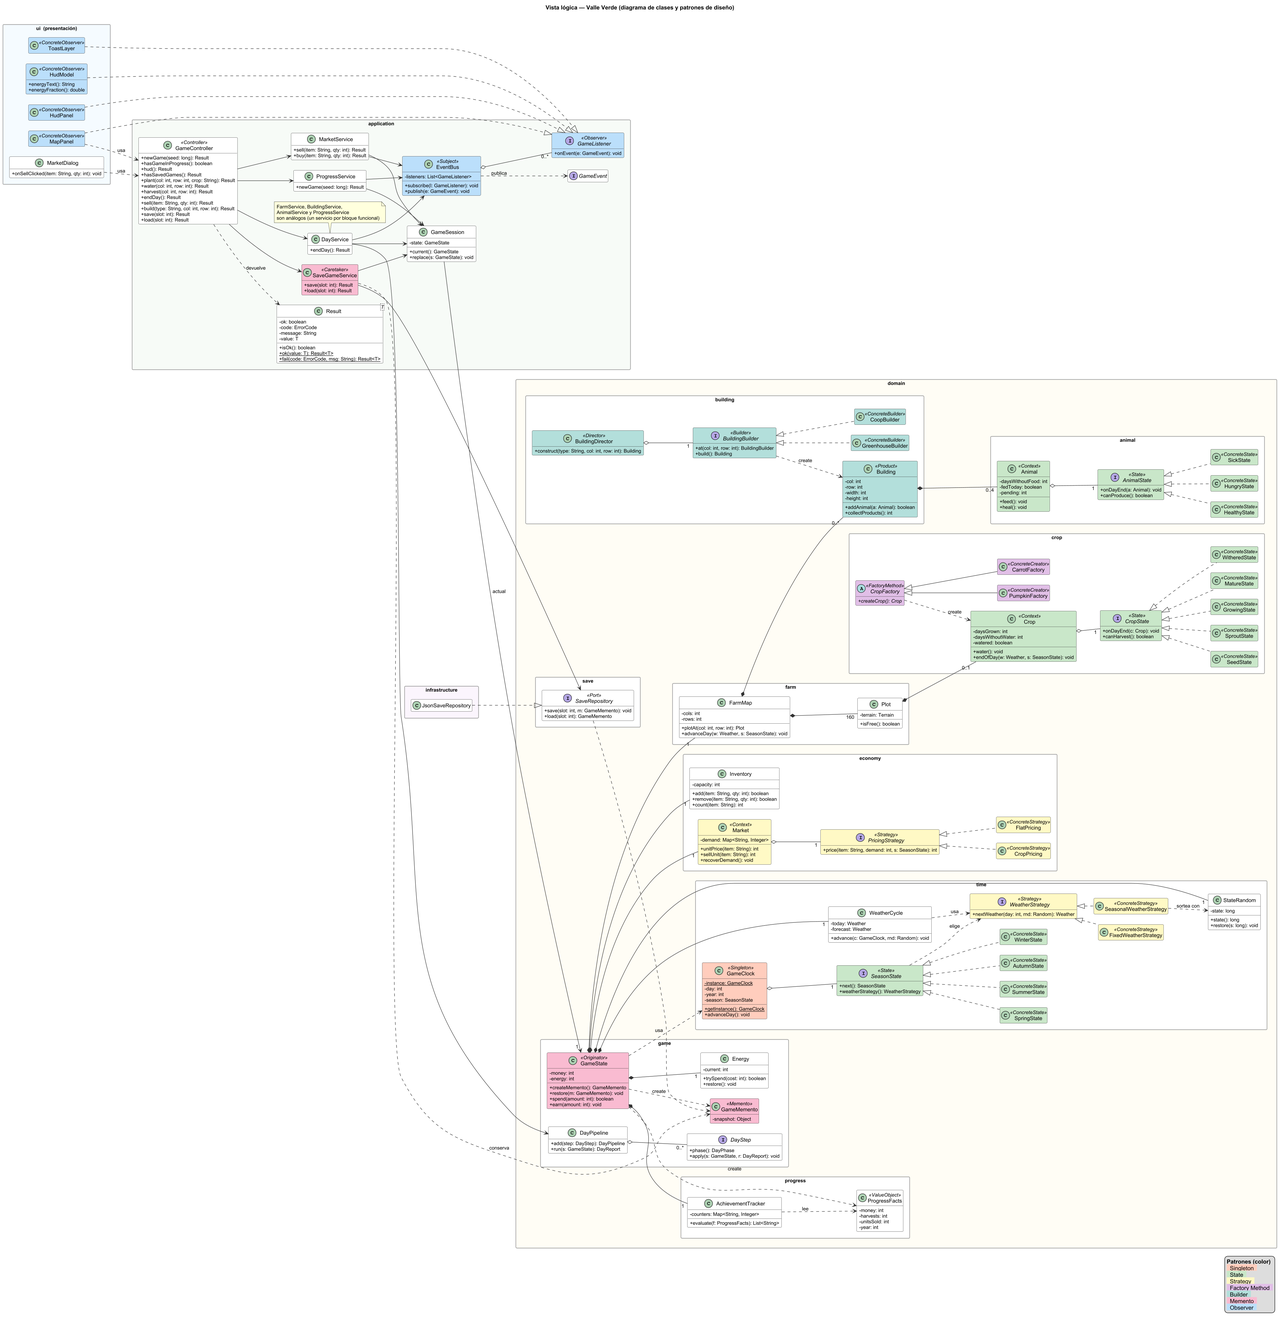
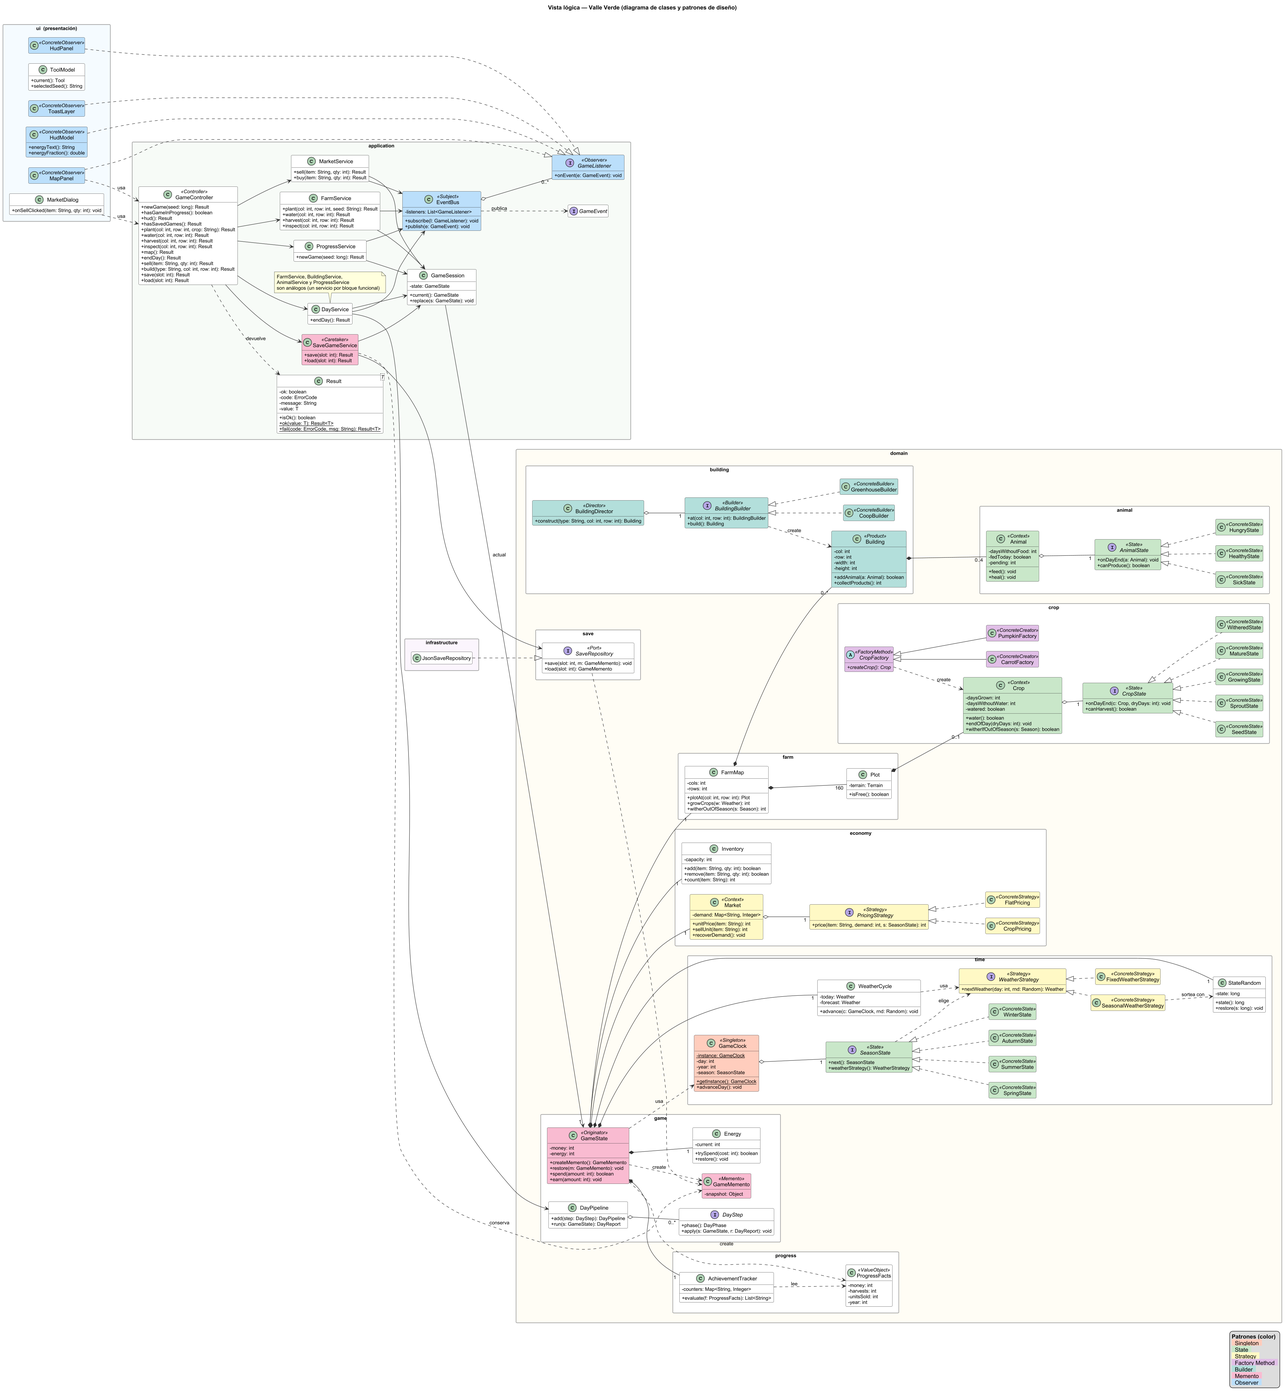
docs(architecture): record phase 5.2 results; sync diagrams and add real-imports checker

diff --git a/tools/check_imports.py b/tools/check_imports.py
@@ -1,0 +1,31 @@
+"""Compares the real imports between domain sub-packages with the arrows drawn in the development view.
+
+Usage (from any folder): python tools/check_imports.py
+Fails if the code has a dependency between domain packages that the diagram does not draw.
+Arrows drawn but not yet present in the code are listed as information (they belong to later phases).
+"""
+import glob, os, re, sys
+sys.stdout.reconfigure(encoding='utf-8')
+ROOT = os.path.join(os.path.dirname(os.path.abspath(__file__)), '..')
+os.chdir(ROOT)
+base = 'src/main/java/edu/ucc/farmsim/'
+real = set()
+for f in glob.glob(base + 'domain/**/*.java', recursive=True):
+    me = os.path.relpath(os.path.dirname(f), base).replace(os.sep, '.')
+    for m in re.findall(r'^import edu\.ucc\.farmsim\.(domain\.\w+)\.', open(f, encoding='utf-8').read(), re.M):
+        if m != me and m != 'domain.config':
+            real.add((me, m))
+dev = open('docs/diagramas/04_vista_desarrollo.puml', encoding='utf-8').read()
+alias = {}; stack = []
+for line in dev.splitlines():
+    s = line.strip(); m = re.match(r'package "([^"]+)"\s+as\s+(\w+).*\{$', s)
+    if m: stack.append(m.group(1)); alias[m.group(2)] = '.'.join(stack[1:]); continue
+    if s == '}' and stack: stack.pop()
+edges = re.findall(r'^(\w+) \.(?:down|up)?\.?> (\w+)', dev, re.M) + re.findall(r'^(\w+) \.\.> (\w+)', dev, re.M)
+drawn = {(alias[a], alias[b]) for a, b in edges if a in alias and b in alias}
+missing = sorted(real - drawn)
+print('dependencias reales entre paquetes de dominio:', sorted(real))
+print('FALTAN en el diagrama:' if missing else 'Todas las dependencias reales están dibujadas.', missing if missing else '')
+planned = sorted(e for e in drawn if e[0].startswith('domain.') and e[1].startswith('domain.') and e not in real)
+print('dibujadas y aún sin código (fases siguientes):', planned)
+sys.exit(1 if missing else 0)

diff --git a/tools/gen_test_plan.py b/tools/gen_test_plan.py
@@ -57,7 +57,7 @@ Las pruebas se escriben **antes** que el código, historia por historia (DoD 1).
 | Solo pruebas de una historia | `mvn test -Dtest='HU01*'` |
 | Incluir pruebas de rendimiento | `mvn verify -Pperf` |
 | Informe de cobertura | `target/site/jacoco/index.html` |
-| Comprobar diagramas, historias y trazabilidad | `python tools/check_diagrams.py` · `python tools/check_hu.py` · `python tools/traceability.py [--upto 5.x]` |
+| Comprobar diagramas, historias, código y trazabilidad | `python tools/check_diagrams.py` · `python tools/check_hu.py` · `python tools/check_imports.py` · `python tools/traceability.py [--upto 5.x]` |
 
 > En este equipo Maven no está en el PATH: se usa `tools/apache-maven-3.9.16/bin/mvn` (o el `mvnw` que se generará en la Fase 5.0).
 

diff --git a/docs/TRAZABILIDAD.md b/docs/TRAZABILIDAD.md
@@ -7,18 +7,18 @@
 
 | RF | Prioridad | Historias | Componente funcional | Clases | Pruebas |
 |---|---|---|---|---|---|
-| RF-01 | Must | HU-01 | Cultivo | pendiente | HU-01: 0 |
-| RF-02 | Must | HU-02 | Cultivo | pendiente | HU-02: 0 |
-| RF-03 | Must | HU-03 | Cultivo | pendiente | HU-03: 0 |
-| RF-04 | Must | HU-04 | Cultivo | pendiente | HU-04: 0 |
-| RF-05 | Must | HU-05, HU-12 | Cultivo | pendiente | HU-05: 0, HU-12: 0 |
-| RF-06 | Should | HU-06 | Cultivo | pendiente | HU-06: 0 |
-| RF-07 | Must | HU-07 | Cultivo | pendiente | HU-07: 0 |
-| RF-08 | Must | HU-10 | Tiempo y clima | CalendarStep, DayPhase, DayPipeline, DayReport, DayService, DayStep, EnergyResetStep, EventBus, ForecastStep, GameController, GameEvent, GameListener, GameMemento, GameScreenPresenter, GameState, Inventory, InventorySnapshot | HU-10: 10 |
+| RF-01 | Must | HU-01 | Cultivo | CarrotFactory, CornFactory, Crop, CropFactory, CropSnapshot, CropStage, CropState, CropType, Energy, FarmMap, FarmMapSnapshot, FarmService, GameController, GameEvent, GameMemento, GameRules, GameState, GrowingState, ItemType, MatureState, Names, Plot, PlotView, PotatoFactory, PumpkinFactory, SeedState, SproutState, TomatoFactory, ViewMapper, WitheredState | HU-01: 10 |
+| RF-02 | Must | HU-02 | Cultivo | Crop, FarmService, GameController | HU-02: 9 |
+| RF-03 | Must | HU-03 | Cultivo | Crop, CropState, DayPipeline, FarmMap, GrowingPhaseState, GrowingState, GrowthStep, MatureState, SeedState, SproutState, WitheredState | HU-03: 5 |
+| RF-04 | Must | HU-04 | Cultivo | FarmService, GameController | HU-04: 9 |
+| RF-05 | Must | HU-05, HU-12 | Cultivo | CalendarStep, Crop, CropState, DayReport, FarmMap, GameRules, GrowingPhaseState, GrowthStep | HU-05: 9, HU-12: 0 |
+| RF-06 | Should | HU-06 | Cultivo | FarmService, GameController | HU-06: 6 |
+| RF-07 | Must | HU-07 | Cultivo | FarmService, GameController, MapPanel, Names, PlotText, PlotView | HU-07: 10 |
+| RF-08 | Must | HU-10 | Tiempo y clima | CalendarStep, DayPhase, DayPipeline, DayReport, DayService, DayStep, EnergyResetStep, EventBus, ForecastStep, GameController, GameEvent, GameListener, GameMemento, GameScreenPresenter, GameState, Inventory, InventorySnapshot | HU-10: 12 |
 | RF-09 | Must | HU-09 | Tiempo y clima | AutumnState, GameClock, GameDate, GameRules, Season, SeasonState, SpringState, SummerState, WinterState | HU-09: 8 |
 | RF-10 | Must | HU-11 | Tiempo y clima | AutumnState, FixedWeatherStrategy, GameRules, SeasonState, SeasonalWeatherStrategy, SpringState, StateRandom, SummerState, Weather, WeatherCycle, WeatherStrategy, WinterState | HU-11: 8 |
 | RF-11 | Must | HU-12 | Tiempo y clima | pendiente | HU-12: 0 |
-| RF-12 | Must | HU-08 | Tiempo y clima | Energy, ErrorCode, GameRules, Messages | HU-08: 5 |
+| RF-12 | Must | HU-08 | Tiempo y clima | Energy, ErrorCode, GameRules, Messages | HU-08: 6 |
 | RF-13 | Must | HU-13 | Economía | GameRules, Inventory, ItemType | HU-13: 5 |
 | RF-14 | Must | HU-14 | Economía | pendiente | HU-14: 0 |
 | RF-15 | Must | HU-15 | Economía | pendiente | HU-15: 0 |
@@ -40,9 +40,9 @@
 | RF-31 | Must | HU-31 | Guardado | pendiente | HU-31: 0 |
 | RF-32 | Should | HU-32 | Guardado | pendiente | HU-32: 0 |
 | RF-33 | Must | HU-33 | Interfaz de usuario | GameController, GameRules, GameScreen, JsonSaveRepository, Main, SaveGameService, SaveRepository, ScreenNavigator, ScreenRouter, StartScreen, StartScreenPresenter, Texts | HU-33: 11 |
-| RF-34 | Must | HU-34 | Interfaz de usuario | GameEvent, GameScreen, GameScreenPresenter, HudModel, HudPanel, HudView, Texts, ViewMapper | HU-34: 7 |
-| RF-35 | Must | HU-35 | Interfaz de usuario | pendiente | HU-35: 0 |
-| RF-36 | Must | HU-36 | Interfaz de usuario | pendiente | HU-36: 0 |
+| RF-34 | Must | HU-34 | Interfaz de usuario | GameEvent, GameScreen, GameScreenPresenter, HudModel, HudPanel, HudView, Texts, ViewMapper | HU-34: 8 |
+| RF-35 | Must | HU-35 | Interfaz de usuario | CellPos, FarmService, GameController, GameScreen, MapGeometry, MapPanel, MapRenderer, MapView, Palette, PlotClickListener, ViewMapper | HU-35: 10 |
+| RF-36 | Must | HU-36 | Interfaz de usuario | GameScreen, GameScreenPresenter, Shortcut, Texts, Tool, ToolBar, ToolModel | HU-36: 13 |
 | RF-37 | Must | HU-37 | Interfaz de usuario | pendiente | HU-37: 0 |
 | RF-38 | Must | HU-38 | Interfaz de usuario | pendiente | HU-38: 0 |
 | RF-39 | Should | HU-39 | Interfaz de usuario | pendiente | HU-39: 0 |
@@ -54,16 +54,16 @@
 
 | Historia | Fase | Prioridad | Criterios | Pruebas | Estado | Clases |
 |---|---|---|---|---|---|---|
-| HU-01 · Sembrar cultivo | 5.2 | Must | 4 | 0 | sin pruebas | pendiente |
-| HU-02 · Regar cultivo | 5.2 | Must | 4 | 0 | sin pruebas | pendiente |
-| HU-03 · Crecimiento por etapas | 5.2 | Must | 4 | 0 | sin pruebas | pendiente |
-| HU-04 · Cosechar cultivo maduro | 5.2 | Must | 4 | 0 | sin pruebas | pendiente |
-| HU-05 · Marchitamiento por falta de riego y por estación | 5.2 | Must | 5 | 0 | sin pruebas | pendiente |
-| HU-06 · Limpiar parcela marchita | 5.2 | Should | 4 | 0 | sin pruebas | pendiente |
-| HU-07 · Consultar el estado de una parcela | 5.2 | Must | 4 | 0 | sin pruebas | pendiente |
-| HU-08 · Administrar la energía diaria | 5.1 | Must | 4 | 5 | completa | Energy, ErrorCode, GameRules, Messages |
+| HU-01 · Sembrar cultivo | 5.2 | Must | 4 | 10 | completa | CarrotFactory, CornFactory, Crop, CropFactory, CropSnapshot, CropStage, CropState, CropType, Energy, FarmMap, FarmMapSnapshot, FarmService, GameController, GameEvent, GameMemento, GameRules, GameState, GrowingState, ItemType, MatureState, Names, Plot, PlotView, PotatoFactory, PumpkinFactory, SeedState, SproutState, TomatoFactory, ViewMapper, WitheredState |
+| HU-02 · Regar cultivo | 5.2 | Must | 4 | 9 | completa | Crop, FarmService, GameController |
+| HU-03 · Crecimiento por etapas | 5.2 | Must | 4 | 5 | completa | Crop, CropState, DayPipeline, FarmMap, GrowingPhaseState, GrowingState, GrowthStep, MatureState, SeedState, SproutState, WitheredState |
+| HU-04 · Cosechar cultivo maduro | 5.2 | Must | 4 | 9 | completa | FarmService, GameController |
+| HU-05 · Marchitamiento por falta de riego y por estación | 5.2 | Must | 5 | 9 | completa | CalendarStep, Crop, CropState, DayReport, FarmMap, GameRules, GrowingPhaseState, GrowthStep |
+| HU-06 · Limpiar parcela marchita | 5.2 | Should | 4 | 6 | completa | FarmService, GameController |
+| HU-07 · Consultar el estado de una parcela | 5.2 | Must | 4 | 10 | completa | FarmService, GameController, MapPanel, Names, PlotText, PlotView |
+| HU-08 · Administrar la energía diaria | 5.1 | Must | 4 | 6 | completa | Energy, ErrorCode, GameRules, Messages |
 | HU-09 · Calendario y estaciones | 5.1 | Must | 4 | 8 | completa | AutumnState, GameClock, GameDate, GameRules, Season, SeasonState, SpringState, SummerState, WinterState |
-| HU-10 · Terminar el día | 5.1 | Must | 4 | 10 | completa | CalendarStep, DayPhase, DayPipeline, DayReport, DayService, DayStep, EnergyResetStep, EventBus, ForecastStep, GameController, GameEvent, GameListener, GameMemento, GameScreenPresenter, GameState, Inventory, InventorySnapshot |
+| HU-10 · Terminar el día | 5.1 | Must | 4 | 12 | completa | CalendarStep, DayPhase, DayPipeline, DayReport, DayService, DayStep, EnergyResetStep, EventBus, ForecastStep, GameController, GameEvent, GameListener, GameMemento, GameScreenPresenter, GameState, Inventory, InventorySnapshot |
 | HU-11 · Sorteo de clima y pronóstico | 5.1 | Must | 4 | 8 | completa | AutumnState, FixedWeatherStrategy, GameRules, SeasonState, SeasonalWeatherStrategy, SpringState, StateRandom, SummerState, Weather, WeatherCycle, WeatherStrategy, WinterState |
 | HU-12 · Efectos del clima en los cultivos | 5.3 | Must | 4 | 0 | sin pruebas | pendiente |
 | HU-13 · Administrar el inventario | 5.1 | Must | 4 | 5 | completa | GameRules, Inventory, ItemType |
@@ -87,9 +87,9 @@
 | HU-31 · Rechazar archivos inválidos sin alterar la partida | 5.5 | Must | 5 | 0 | sin pruebas | pendiente |
 | HU-32 · Listar ranuras de guardado | 5.5 | Should | 3 | 0 | sin pruebas | pendiente |
 | HU-33 · Pantalla de inicio | 5.1 | Must | 4 | 11 | completa | GameController, GameRules, GameScreen, JsonSaveRepository, Main, SaveGameService, SaveRepository, ScreenNavigator, ScreenRouter, StartScreen, StartScreenPresenter, Texts |
-| HU-34 · HUD superior | 5.1 | Must | 4 | 7 | completa | GameEvent, GameScreen, GameScreenPresenter, HudModel, HudPanel, HudView, Texts, ViewMapper |
-| HU-35 · Mapa de la granja | 5.2 | Must | 5 | 0 | sin pruebas | pendiente |
-| HU-36 · Herramientas y clic sobre parcelas | 5.2 | Must | 5 | 0 | sin pruebas | pendiente |
+| HU-34 · HUD superior | 5.1 | Must | 4 | 8 | completa | GameEvent, GameScreen, GameScreenPresenter, HudModel, HudPanel, HudView, Texts, ViewMapper |
+| HU-35 · Mapa de la granja | 5.2 | Must | 5 | 10 | completa | CellPos, FarmService, GameController, GameScreen, MapGeometry, MapPanel, MapRenderer, MapView, Palette, PlotClickListener, ViewMapper |
+| HU-36 · Herramientas y clic sobre parcelas | 5.2 | Must | 5 | 13 | completa | GameScreen, GameScreenPresenter, Shortcut, Texts, Tool, ToolBar, ToolModel |
 | HU-37 · Inventario en grilla | 5.3 | Must | 4 | 0 | sin pruebas | pendiente |
 | HU-38 · Mercado modal | 5.3 | Must | 4 | 0 | sin pruebas | pendiente |
 | HU-39 · Notificaciones (toasts) | 5.6 | Should | 4 | 0 | sin pruebas | pendiente |
@@ -97,4 +97,4 @@
 | HU-41 · Animaciones suaves | 5.6 | Could | 4 | 0 | sin pruebas | pendiente |
 | HU-42 · Carga de sprites con respaldo vectorial | 5.6 | Should | 4 | 0 | sin pruebas | pendiente |
 
-**Resumen:** 8 de 42 historias con todas sus pruebas; 61 pruebas `HUxx_` en total.
+**Resumen:** 17 de 42 historias con todas sus pruebas; 146 pruebas `HUxx_` en total.

diff --git a/docs/ARQUITECTURA.md b/docs/ARQUITECTURA.md
@@ -2,7 +2,7 @@
 
 > **Versión 0.1 · 2026-11-22 · Fase 4**
 > Formaliza el diseño propuesto en los diagramas ([`DIAGRAMAS.md`](DIAGRAMAS.md)): capas, árbol de paquetes, decisiones técnicas y plan de implementación por fases con sus historias ([`HISTORIAS_DE_USUARIO.md`](HISTORIAS_DE_USUARIO.md) §7). El plan de pruebas está en [`PLAN_DE_PRUEBAS.md`](PLAN_DE_PRUEBAS.md).
-> **Estado:** las Fases 5.0 (§10) y 5.1 (§11) están hechas. La Fase 5.2 empieza solo con tu visto bueno.
+> **Estado:** las Fases 5.0 (§10), 5.1 (§11) y 5.2 (§12) están hechas. La Fase 5.3 empieza solo con tu visto bueno.
 
 ## 1. Estilo arquitectónico
 
@@ -229,4 +229,47 @@ Ajustes surgidos al implementar: (1) `Main` se declara como capa «Composition»
 | HU-33 · CA-3 | cargar cuando sí hay una partida guardada | 5.5 (HU-30) |
 
 **Diagramas:** el diagrama lógico y el de desarrollo incluyen ahora las clases reales de la fase. Además de `tools/check_diagrams.py`, se comprobó una vez contra los `import` reales del dominio: no falta ninguna dependencia en el dibujo (las flechas dibujadas que aún no existen en el código corresponden a fases siguientes).
+
+## 12. Estado de la Fase 5.2 (cultivo)
+
+**Historias cerradas (9 historias, 29 puntos):** HU-01, 02, 03, 04, 05, 06, 07, 35 y 36. `python tools/traceability.py --upto 5.2` termina sin errores.
+
+| Resultado | Valor |
+|---|---|
+| Pruebas | 163 en verde (146 con prefijo `HUxx_`) y 1 deshabilitada con motivo (HU-10 · CA-3, fase 5.5) |
+| Cobertura de líneas (JaCoCo) | **dominio 97,8 %**, **aplicación 95,5 %**, UI 90,6 %, infraestructura 100 % (barrera: 70 % en dominio y aplicación) |
+| Patrones aplicados | State (`CropState` con `SeedState`, `SproutState`, `GrowingState`, `MatureState`, `WitheredState`; contexto `Crop`), Factory Method (`CropFactory` con 5 creadores), Observer (`MapPanel`); todos registrados en `patterns.txt` |
+| Pruebas críticas cerradas | **1** `HU01_ca2_sowingOutOfSeasonIsRejectedAndNothingChanges` y **2** `HU04_ca2_harvestingWithAFullInventoryIsRejectedAndTheCropStaysMature` |
+| Integración Swing real | herramienta «1 Sembrar» → clic en el mapa → HUD 98/100 → `Enter` termina el día |
+
+**Decisiones tomadas al implementar:**
+
+| # | Decisión | Motivo |
+|---|---|---|
+| D-07 | `CropType` no conoce `ItemType`: es `ItemType` quien enlaza cada semilla y cada cosecha con su cultivo | Evita un ciclo `crop ↔ economy`: el diagrama de desarrollo ya dibujaba `economy → crop` |
+| D-08 | `GrowingPhaseState` agrupa lo común de Semilla, Brote y Crecimiento (necesitan agua, no se cosechan) | Una sola implementación de la regla de crecimiento y de marchitamiento por sequedad |
+| D-09 | El marchitamiento por cambio de estación vive en `CalendarStep` (paso 5 de RN-03) y el de sequedad en `GrowthStep` (paso 2) | Es exactamente el orden de RN-03; el crecimiento del último día ocurre antes del cambio de estación |
+| D-10 | La herramienta «Cosechar» cosecha, limpia o (en 5.4) recolecta según el contenido de la parcela | RN-34 |
+| D-11 | Código nuevo `CULTIVO_MARCHITO` en RN-35 | RN-07 manda rechazar el riego de un cultivo marchito y no había código para ello |
+| D-12 | Regar un cultivo maduro se permite (cuesta energía sin efecto) | RN-07 solo exige «vivo y sin regar hoy»; el rechazo necesitaría una regla nueva |
+| D-13 | Las herramientas «Construir» y «Alimentar» y los atajos `M`, `I`, `L`, `F5`, `F9` se pueden pulsar y responden «estará disponible en una fase posterior» | HU-36 · CA-1 y CA-5 piden que existan; sus pantallas llegan en 5.3, 5.4 y 5.5 |
+| D-14 | `MapPanel` consulta el mapa solo al recibir un evento (`GameStarted`, `DayEnded`, `MapChanged`); no tiene `Timer` (lo verifica una prueba) | Regla de interfaz: actualizar por eventos, no por consulta en bucle |
+| D-15 | Geometría (`MapGeometry`) y dibujo (`MapRenderer`) son clases sin componente | Se prueban pintando sobre un `BufferedImage`, sin pantalla |
+
+**Correcciones a documentos aprobados:** (1) las coordenadas de ejemplo de HU-01 (parcela `(2,3)`) y de HU-18 (esquina `(4,6)`) no coincidían con el mapa de RN-04 y se cambiaron por `(5,3)` y `(2,7)`; (2) `CULTIVO_MARCHITO` se agregó a RN-35; (3) los diagramas lógico y de desarrollo incluyen las clases de la fase (`FarmMap.growCrops`, `Crop.endOfDay`, `CropState.onDayEnd`, `FarmService`).
+
+**Criterios de la 5.1 que se cerraron en esta fase:** HU-10 · CA-2 (se limpia la marca de riego), HU-08 · CA-2 (`SIN_ENERGIA` al sembrar) y HU-34 · CA-2 (el evento `EnergyChanged` lo publica una acción real).
+
+**Criterios cubiertos en parte (se completan donde nace lo que falta):**
+
+| Criterio | Qué falta | Fase |
+|---|---|---|
+| HU-28 · CA-1 | demanda 100 de todos los productos y logros bloqueados | 5.3 y 5.5 |
+| HU-10 · CA-3 | rendimiento a plena carga (prueba `@Disabled`) | 5.5 |
+| HU-33 · CA-3 | cargar cuando sí hay una partida guardada | 5.5 |
+| HU-35 · CA-3 | dibujar edificios y animales | 5.4 |
+| HU-36 · CA-4 | recolectar los productos de un edificio con «Cosechar» | 5.4 |
+| HU-36 · CA-5 | `M`, `I`, `L`, `F5` y `F9` abren su función (hoy solo responden que llegará) | 5.3 y 5.5 |
+
+**Diagramas:** además de `tools/check_diagrams.py`, la nueva herramienta `tools/check_imports.py` compara los `import` reales entre paquetes del dominio con las flechas del diagrama de desarrollo: no falta ninguna.
 

diff --git a/README.md b/README.md
@@ -12,9 +12,10 @@ Simulador de granja 2D **por turnos** (un turno = un día), hecho en Java con Sw
 | 0 a 4 | Lectura de insumos, requerimientos, historias de usuario, diagramas y arquitectura | hechas (ver [`docs/`](docs/)) |
 | **5.0** | Preparación técnica: `pom.xml`, esqueleto de paquetes, pruebas de arquitectura, cobertura | **hecha** |
 | **5.1** | Núcleo del turno: inventario, calendario, energía, clima, nueva partida, terminar día, pantalla de inicio y HUD (8 historias) | **hecha** |
-| 5.2 a 5.6 | Cultivos, economía, animales y edificios, guardado y pulido visual | pendientes |
+| **5.2** | Cultivo: sembrar, regar, crecer, cosechar, marchitar y limpiar, con el mapa Java2D, herramientas y atajos (9 historias) | **hecha** |
+| 5.3 a 5.6 | Economía, animales y edificios, guardado y pulido visual | pendientes |
 
-Hoy el juego abre la **pantalla de inicio** (Nueva partida, Cargar, Salir) y una pantalla de juego con la barra superior (dinero, fecha, clima, pronóstico y energía) y el botón «Terminar día». El mapa de la granja y las herramientas llegan con la fase 5.2.
+Hoy el juego abre la **pantalla de inicio** (Nueva partida, Cargar, Salir) y una pantalla de juego con la barra superior (dinero, fecha, clima, pronóstico y energía) y el botón «Terminar día». Desde la fase 5.2 también tiene el **mapa de la granja**: eliges una herramienta (teclas `1` a `5` o la barra), eliges la semilla y haces clic en una parcela de tierra para sembrar, regar y cosechar; `Enter` termina el día. El mercado, los animales y el guardado llegan en las fases siguientes.
 
 ## Requisitos
 
@@ -43,6 +44,7 @@ java -jar target\farmsim.jar
 | Informe de cobertura | abrir `target\site\jacoco\index.html` |
 | Comprobar diagramas | `python tools/check_diagrams.py` |
 | Comprobar historias de usuario | `python tools/check_hu.py` |
+| Comprobar el código contra el diagrama de desarrollo | `python tools/check_imports.py` |
 | Matriz de trazabilidad | `python tools/traceability.py` → `docs/TRAZABILIDAD.md` |
 | Volver a generar los diagramas | `bash tools/render_diagrams.sh` (requiere Java, `tools/plantuml.jar` y Graphviz) |
 
@@ -65,13 +67,15 @@ edu.ucc.farmsim
 |---|---|---|---|
 | Singleton | `GameClock` | HU-09 | hecho (5.1) |
 | State | `SeasonState` con `SpringState`, `SummerState`, `AutumnState`, `WinterState` | HU-09 | hecho (5.1) |
-| State | `CropState`, `AnimalState` y sus estados concretos | HU-03, HU-05, HU-21 | 5.2 y 5.4 |
+| State | `CropState` con `SeedState`, `SproutState`, `GrowingState`, `MatureState`, `WitheredState` (contexto `Crop`) | HU-03, HU-05 | hecho (5.2) |
+| State | `AnimalState` y sus estados concretos | HU-21 | 5.4 |
 | Strategy | `WeatherStrategy` con `SeasonalWeatherStrategy` y `FixedWeatherStrategy` | HU-11 | hecho (5.1) |
 | Strategy | `PricingStrategy` | HU-15 | 5.3 |
 | Observer | `EventBus`, `GameListener`, `HudModel`, `HudPanel` | HU-10, HU-34 | hecho (5.1) |
-| Observer | `MapPanel`, `ToastLayer` | HU-35, HU-39 | 5.2 y 5.6 |
+| Observer | `MapPanel` | HU-35 | hecho (5.2) |
+| Observer | `ToastLayer` | HU-39 | 5.6 |
 | Memento | `GameState` (originador), `GameMemento` | HU-10 | en memoria (5.1); guardado en archivo en 5.5 |
-| Factory Method | `CropFactory` y sus creadores | HU-01 | 5.2 |
+| Factory Method | `CropFactory` con `CarrotFactory`, `PotatoFactory`, `TomatoFactory`, `CornFactory`, `PumpkinFactory` | HU-01 | hecho (5.2) |
 | Builder | `BuildingBuilder`, `BuildingDirector` | HU-18 | 5.4 |
 
 > Cada clase de patrón lleva el Javadoc `Pattern: <nombre> — Role: <rol>` y está registrada en `src/test/resources/patterns.txt` (una prueba lo verifica). La tabla se actualiza al cerrar cada fase.

diff --git a/docs/DIAGRAMAS.md b/docs/DIAGRAMAS.md
@@ -116,6 +116,7 @@ Tomados de la revisión de la guía de estudio y del PDF de despliegue:
 | Cada **mensaje** de la secuencia es una operación de la clase receptora (o de la interfaz que implementa) | 10 mensajes verificados |
 | Los **42 RF** aparecen en la vista funcional exactamente una vez | 42 / 42 |
 | Los `RF-xx` y `HU-xx` citados en los encabezados de los `.puml` existen en la documentación | 0 referencias rotas |
+| Las dependencias reales entre paquetes del dominio (según los `import` del código) están dibujadas en la vista de desarrollo (`tools/check_imports.py`, desde la fase 5.2) | 0 dependencias faltantes |
 
 La prueba se validó también en negativo: al renombrar una operación de la secuencia y mover una clase de paquete, el verificador reportó ambos errores.
 

diff --git a/docs/PLAN_DE_PRUEBAS.md b/docs/PLAN_DE_PRUEBAS.md
@@ -24,7 +24,7 @@ Las pruebas se escriben **antes** que el código, historia por historia (DoD 1).
 | Solo pruebas de una historia | `mvn test -Dtest='HU01*'` |
 | Incluir pruebas de rendimiento | `mvn verify -Pperf` |
 | Informe de cobertura | `target/site/jacoco/index.html` |
-| Comprobar diagramas, historias y trazabilidad | `python tools/check_diagrams.py` · `python tools/check_hu.py` · `python tools/traceability.py [--upto 5.x]` |
+| Comprobar diagramas, historias, código y trazabilidad | `python tools/check_diagrams.py` · `python tools/check_hu.py` · `python tools/check_imports.py` · `python tools/traceability.py [--upto 5.x]` |
 
 > En este equipo Maven no está en el PATH: se usa `tools/apache-maven-3.9.16/bin/mvn` (o el `mvnw` que se generará en la Fase 5.0).
 
